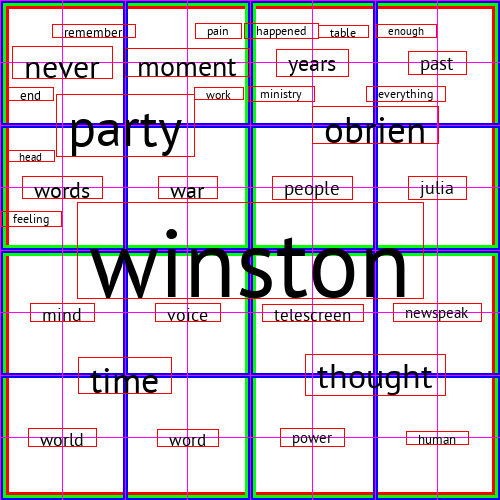
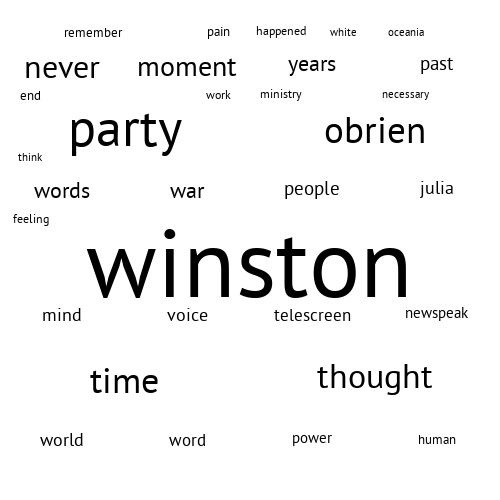
Added new output images and updated readme

diff --git a/README.MD b/README.MD
@@ -1,3 +1,15 @@
+## This project is a work in progress
+
+## Sample Results
+### Sample Output
+![](./output/wordcloud.png)
+
+### Sample Word Bounds for Collision Detection
+![](./output/word-bounds.png)
+
+## Sample Word Placement Grid
+![](./output/word-placement-grid.png)
+
 ## References
 1. [1984 by George Orwell, Uploaded by Project Gutenberg Australia](https://gutenberg.net.au/ebooks01/0100021.txt)
 2. [StackOverflow - Algorithm to Implement Word Cloud like Wordle](https://stackoverflow.com/questions/342687/algorithm-to-implement-a-word-cloud-like-wordle)
